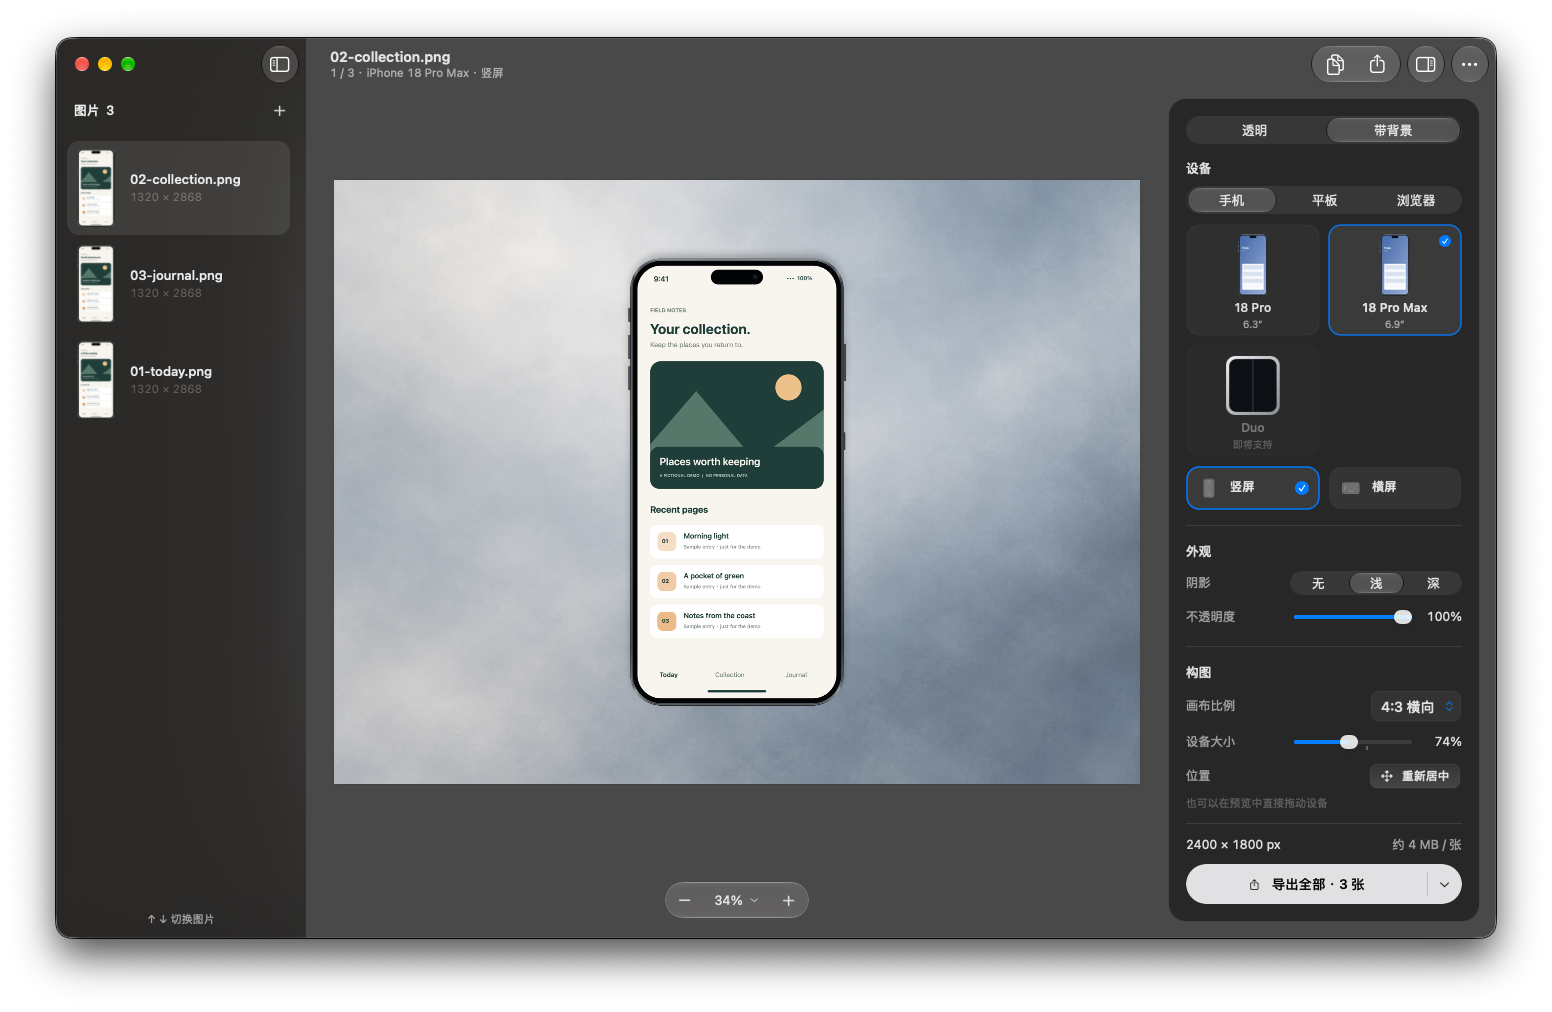
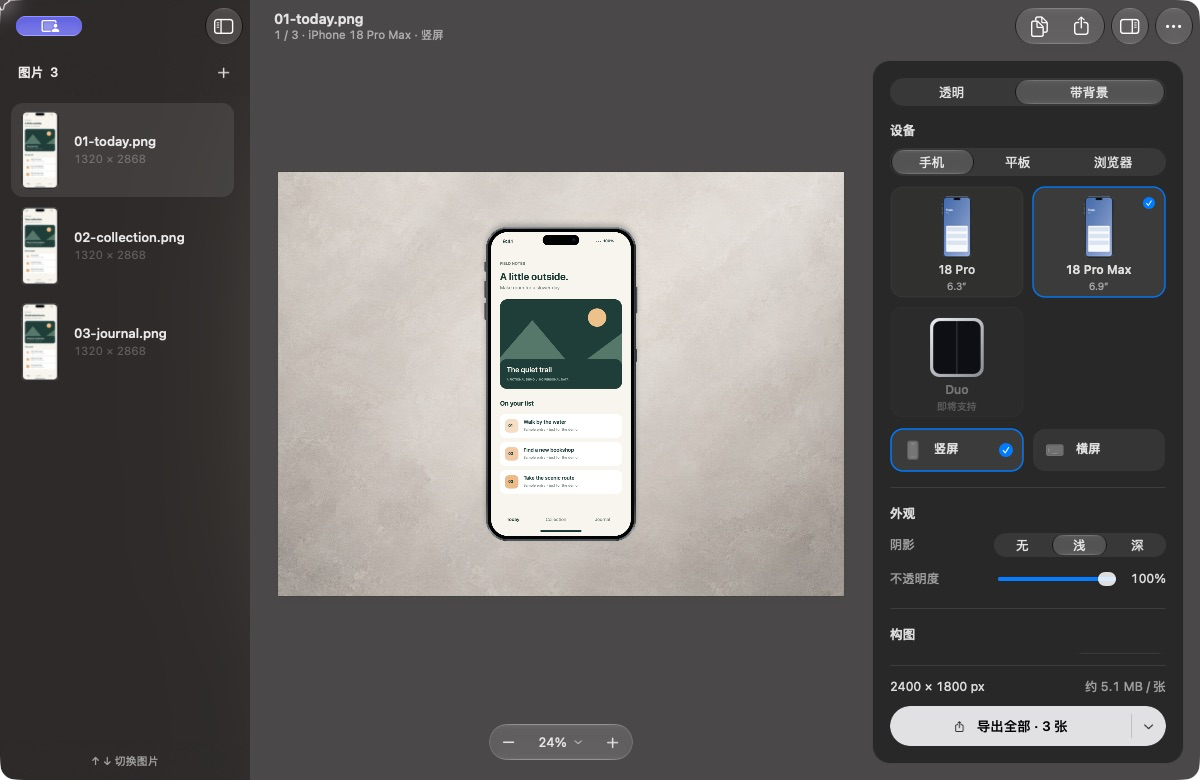
[FRALO-38] Refresh localized README screenshots and language guidance
Refresh English and Chinese README screenshots with localized light and dark workbench views. Document the four supported interface languages and the language picker.

Verify the preview build, localization checks, guard tests, public source checks, image dimensions, and README image references. CI core-and-cli and Plane task sync passed.

diff --git a/README.md b/README.md
@@ -22,8 +22,8 @@
 </div>
 
 <picture>
-  <source media="(prefers-color-scheme: dark)" srcset="docs/assets/workbench-dark.png">
-  <img src="docs/assets/workbench-light.png" alt="The Fralo workbench with three generated screenshots, an iPhone 18 Pro Max frame, and a warm background">
+  <source media="(prefers-color-scheme: dark)" srcset="docs/assets/workbench-en-dark.png">
+  <img src="docs/assets/workbench-en-light.png" width="1200" alt="The English Fralo workbench with three generated Field Notes screenshots, an iPhone 18 Pro Max frame, and a warm background">
 </picture>
 
 Fralo is a native macOS app and command-line tool that puts your screenshots inside
@@ -52,8 +52,8 @@ built on the same Core Graphics rendering core.
 - **Safe exports.** Existing files are skipped unless you choose to overwrite, originals are
   never touched, exports can be canceled, and one failed image does not stop the batch.
 - **A real Mac app.** Native sidebar, toolbar, menus, keyboard shortcuts, undo and redo,
-  light and dark appearance, and support for Reduce Motion, Reduce Transparency, and
-  Increase Contrast.
+  English, Simplified Chinese, Traditional Chinese, and Japanese, light and dark appearance,
+  and support for Reduce Motion, Reduce Transparency, and Increase Contrast.
 - **Scriptable.** A bundled `fralo` CLI renders batches without opening the App.
 - **Signed updates.** In-app updates through [Sparkle](https://sparkle-project.org), with
   Ed25519-verified archives. Fralo checks GitHub once a day, never installs silently, and can
@@ -87,7 +87,7 @@ for first launch, updating, and uninstalling.
 
 ### Updating
 
-Fralo 0.1.1 and later update in place: choose **Fralo → 检查更新…** (Check for Updates).
+Fralo 0.1.1 and later update in place: choose **Fralo → Check for Updates…**.
 Installing waits for any running export to finish. Fralo 0.1.0 has no updater; install the
 latest DMG once.
 
@@ -97,9 +97,13 @@ latest DMG once.
 | --- | --- |
 | macOS | 14 Sonoma or later (runtime-verified on macOS 27; older versions are build targets only) |
 | Hardware | Apple silicon. Intel builds are not published. |
-| Interface language | Simplified Chinese |
+| Interface languages | English, Simplified Chinese, Traditional Chinese, Japanese |
 
 ## Usage
+
+Choose **Fralo → Settings… → Appearance → Language** to change the interface language
+immediately. The default follows your macOS preferred languages; unsupported languages
+fall back to English.
 
 1. **Add screenshots.** Drag PNG or JPEG files onto the window, press ⌘O to choose files,
    ⇧⌘O to import a folder (top level only), or ⌘V to paste.

diff --git a/docs/assets/README.md b/docs/assets/README.md
@@ -1,8 +1,17 @@
 # Public demo media
 
-- workbench-light.png, workbench-dark.png: the actual Fralo 0.2.0 workbench in light and
-  dark appearance, captured from the isolated workbench preview with the generated Field
-  Notes inputs and a background composition. The captures include the system window shadow.
+- workbench-light.png, workbench-dark.png: the current Simplified Chinese workbench
+  in light and dark appearance, used by README.zh-CN.md.
+- workbench-en-light.png, workbench-en-dark.png: the same workbench in English, used by
+  README.md. All four images were captured on 2026-11-02 from source commit
+  `915170af3e74901220a3761512a4f146db240283` using the isolated Workbench Preview,
+  with the three generated Field Notes inputs, an iPhone 18 Pro Max frame, and a warm
+  4:3 background composition. The window is 1200 × 780 pt: light captures are
+  2400 × 1560 px (2×) and dark captures are 1200 × 780 px (1×), as returned by the
+  capture tool. Images contain the actual window without desktop content or system
+  shadow. The README
+  display width is capped at 1200 px; GitHub scales it to the available content width.
+  The UI is captured as rendered, without redrawing or substituting translated text.
 - background-1.jpg, background-2.jpg, background-3.jpg: 3:4 background compositions
   (warm preset, gradient, sage preset) rendered by FraloCore, scaled to 1000 px tall
   for the README.
@@ -12,4 +21,11 @@
 
 The input screens are generated by scripts/generate-demo.swift and licensed under MIT.
 No personal screenshots, Finder dialogs, file paths, desktop content, or third-party
-App screens are included. Raw captures remain in the ignored local artifacts folder.
+App screens are included. Workbench captures are taken from the running app through
+the native computer-use window screenshot API. Its JPEG captures are converted to PNG
+without further lossy encoding; no screenshot content is reconstructed. To reproduce:
+use `scripts/run-workbench-preview.sh` with `--preview-language=en` or
+`--preview-language=zh-Hans`, `--preview-window=1200x780`, and
+`--preview-appearance=light` or `--preview-appearance=dark` to reproduce the window.
+Import `examples/01-today.png`, `02-collection.png`, and `03-journal.png`, then choose the
+background composition in the inspector.
